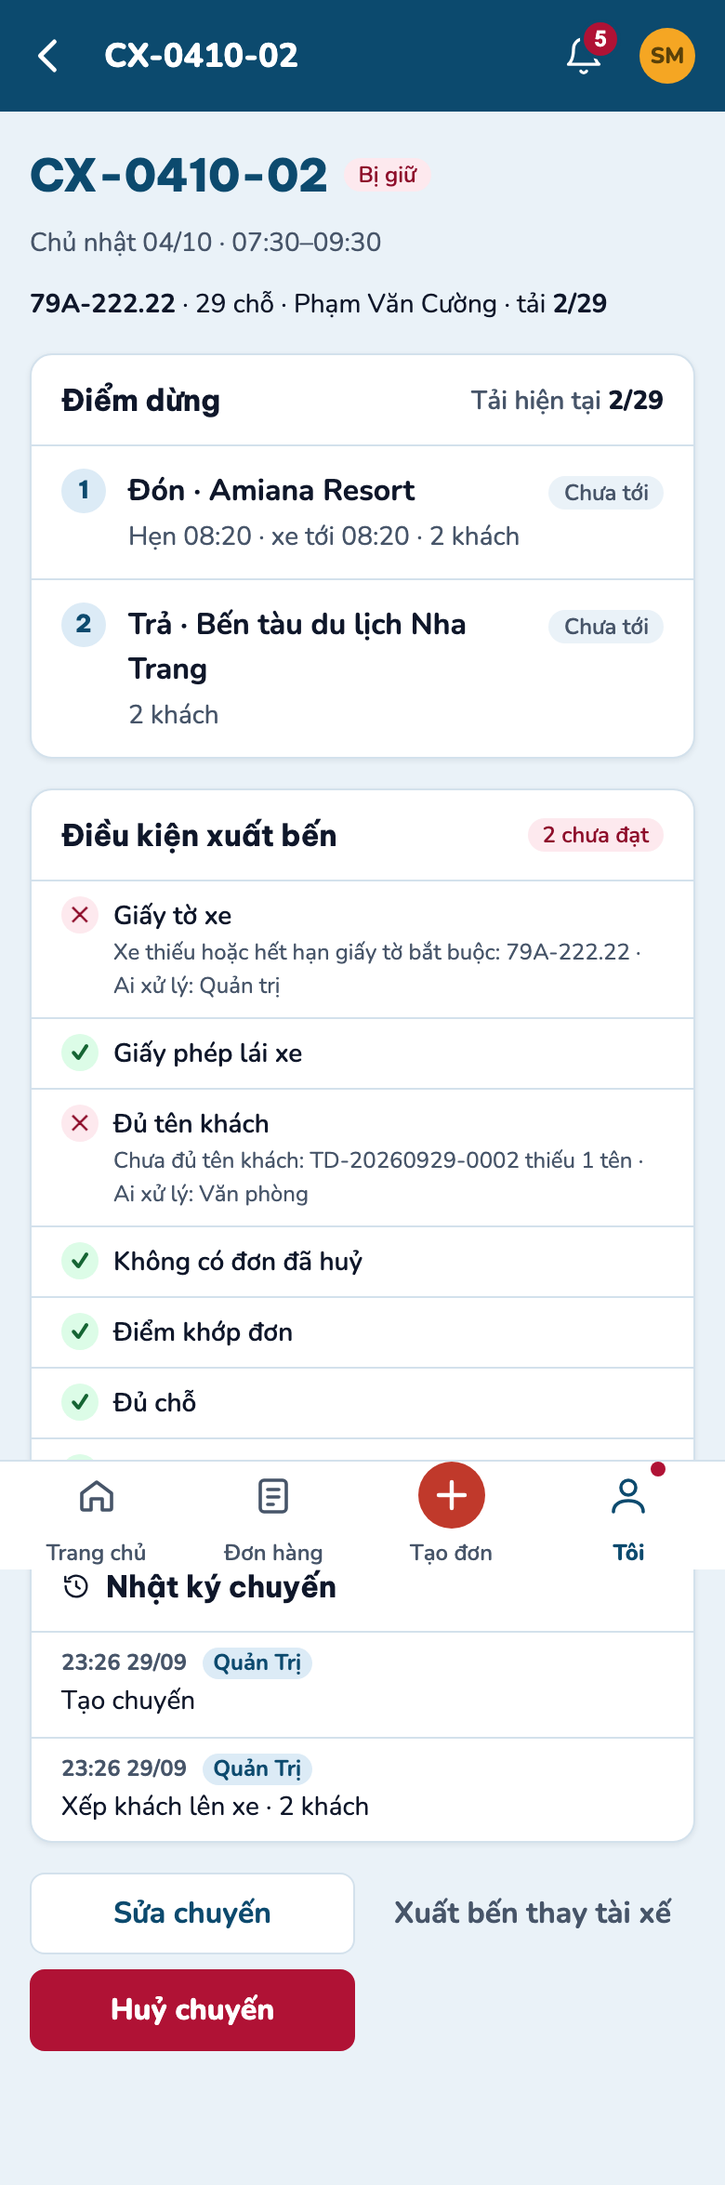
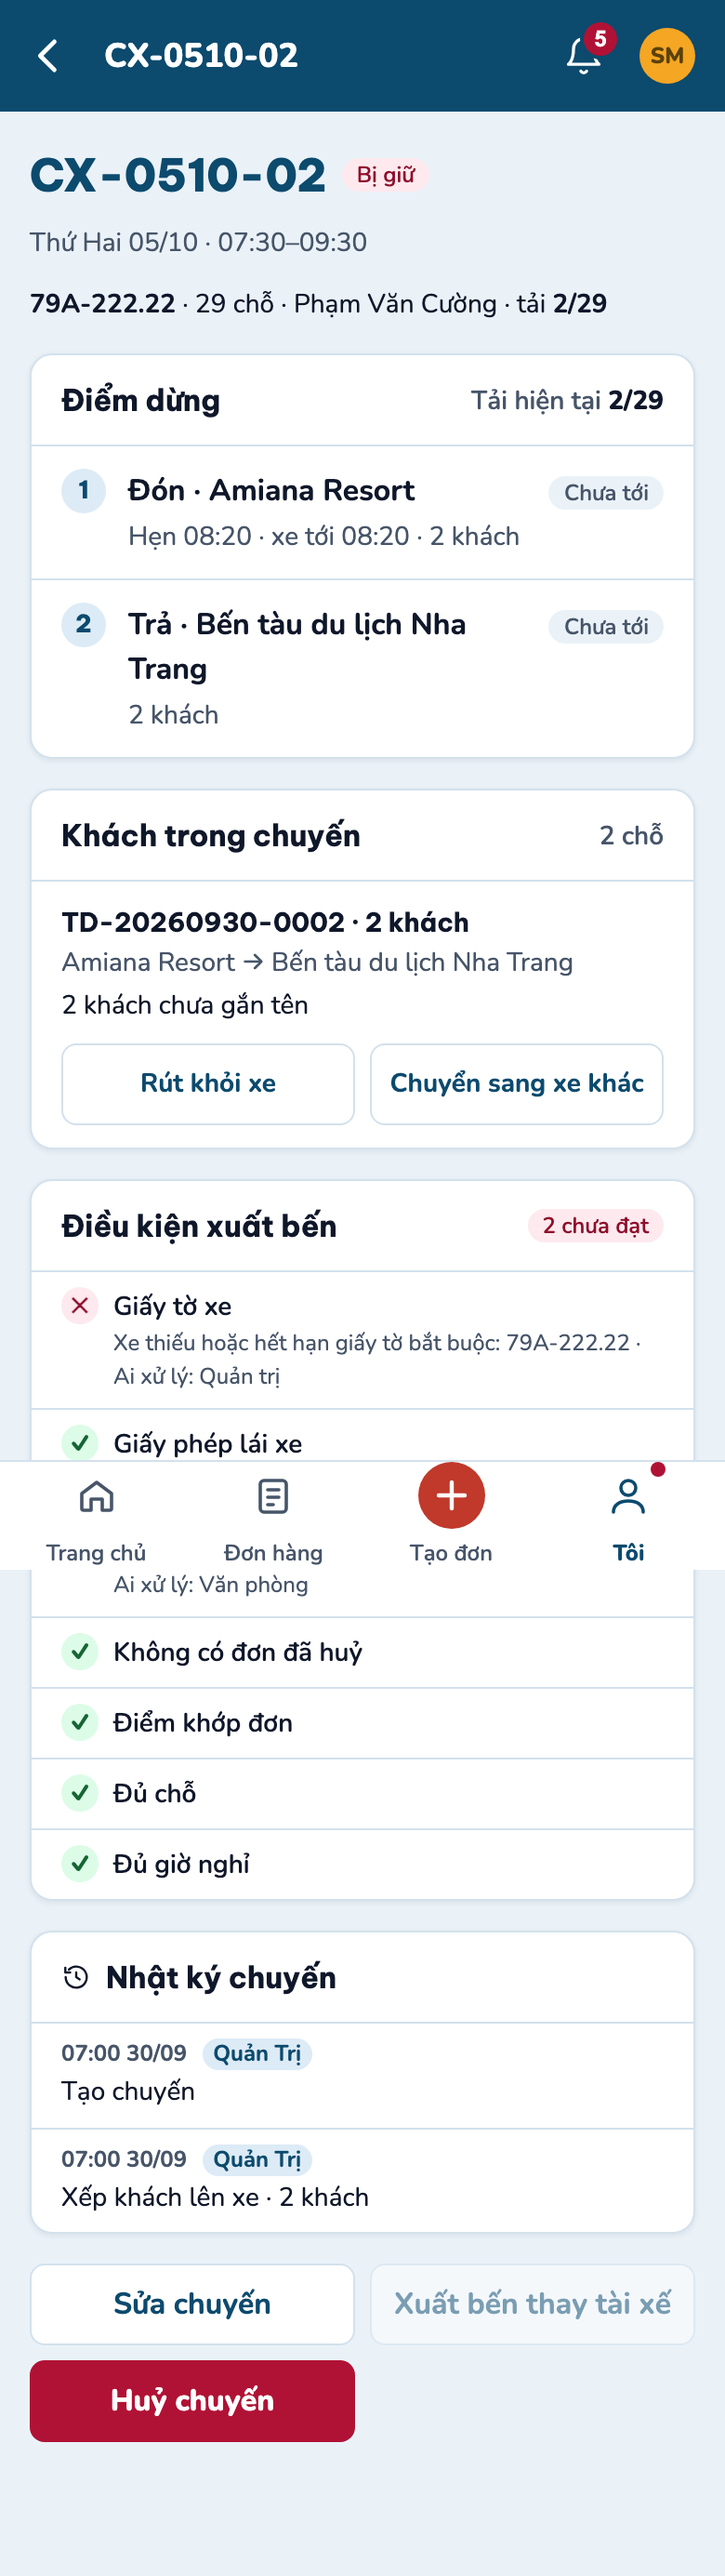
Chi tiết chuyến: nút khoá "Xuất bến thay tài xế" trông rõ là nút bị khoá (1040 + 390)
Vì sao: `.vc-btn:disabled` tô nền trùng nền trang nên nút khoá đặt thẳng trên nền trang
lẫn thành chữ thường (điều phối giao, giả định bề mặt đảo ngược được, nhật ký 13.7).
Giữ dáng nút ghost + mờ .5 theo khuôn nút khoá của bộ thiết kế; chỉ token, không đổi logic.
Chrome chuyen-smoke thêm kiểm nền khác nền trang + mờ: đỏ trước 6/8, xanh sau 8/8.
Kèm kết quả chạy lại sau gộp d9b884b (dd665b3).

Tự khai, chưa có người kiểm độc lập.

Claude-Session: https://claude.ai/code/session_012uzHHEgA3ZBQkvhnpB7ynZ

diff --git a/public/app.css b/public/app.css
@@ -1634,6 +1634,10 @@ body.login-page main.login { display: flex; flex-direction: column; height: 100%
 .dp-ct-when { font-size: var(--fs-label); color: var(--c-text-muted); }
 .dp-ct-actions { display: flex; flex-wrap: wrap; gap: var(--s2); margin-left: auto; }
 .dp-ct-actions .vc-btn { white-space: nowrap; }
+/* Nhật ký giao diện 13.7: nút khoá của Chi tiết chuyến đặt THẲNG trên nền trang (đầu trang máy tính, cuối trang điện thoại). `.vc-btn:disabled` tô nền
+   --c-surface-alt = đúng nền trang → nút lẫn thành chữ thường. Ở đây giữ dáng nút ghost (nền, viền) và làm mờ theo khuôn nút khoá của bộ thiết kế
+   (Button disabled = opacity .5, như `.btn:disabled`). Chỉ token. */
+.dp-ct-actions .vc-btn-ghost-primary:disabled, .dp-ct-bottom .vc-btn-ghost-primary:disabled { color: var(--c-primary); background: var(--c-surface); border-color: var(--c-border); opacity: .5; }
 .dp-ct-lock { margin-bottom: var(--s3); }
 .dp-ct-layout { display: grid; grid-template-columns: minmax(0, 1fr); gap: var(--s4); align-items: start; }
 .dp-ct-main, .dp-ct-side { display: flex; flex-direction: column; gap: var(--s4); min-width: 0; }

diff --git a/docs/evidence/2026-09-29-adr-0049/README.md b/docs/evidence/2026-09-29-adr-0049/README.md
@@ -24,7 +24,7 @@ AXE_JS=<…/axe.min.js> CHROME_BIN=docs/evidence/2026-09-20-a2/kich-ban/chrome-w
 | `dat-gap-smoke.mjs` | B7 — V12 | 12 | Mốc đặt 48 giờ bằng route chính sách (chặng đón ngày mai luôn dưới mốc). Bán hàng: biểu mẫu CHƯA lưu gọi `GET /api/orders/moc-toi-thieu`, dải cảnh báo 7b, đổi ngày thì hết / hiện lại; lưu nháp được; trang đơn khoá "Xác nhận đơn" + "Cần Quản trị duyệt đặt gấp"; 409 khi trang cũ → dải "Còn chặng đón dưới mốc…" có dòng từng chặng; đơn đã đặt gấp: nhãn ĐỦ (văn phòng — H4); sửa chuyến dưới mốc → 409, không khung. Quản trị: nút + khung Đặt gấp (bốn lý do từ `LY_DO_DAT_GAP`, thiếu lý do → câu lỗi, ghi chú /120), duyệt → nhãn 7c, xác nhận được; sửa chuyến dưới mốc → khung trong bảng, gửi lại kèm `datGap`; biểu mẫu CHƯA lưu (390) "Duyệt đặt gấp" = lưu nháp rồi đặt gấp. Đối tác: chỉ "Đặt gấp — Quản trị đã duyệt" ở khối dịch vụ; **bước 10b — bài canh R-P21**: Lịch sử đơn của Đối tác không có nhãn lý do / tên người duyệt (đỏ thật trước khi gộp máy chủ `df32e83`, xanh sau). axe; không lỗi console |
 | `moc-chua-co-smoke.mjs` | B7 — 503 | 6 | "Chưa có chính sách" dựng trên D1 TẠM của kịch bản (DROP TRIGGER + DELETE bảng chính sách — không sửa máy chủ): biểu mẫu không cảnh báo mốc, Lưu nháp có giờ đón → 503 → dải đỏ câu máy chủ + dòng việc cần làm; trang đơn không khoá Xác nhận, bấm → 503 (1040 + 390); bảng sửa chuyến → 503, không khung Đặt gấp; Toàn quyền lưu bản chính sách đầu tiên từ trạng thái rỗng → mọi thứ chạy lại |
 | `chuyen-sua-smoke.mjs` | B3 — V3 | 12 | Dữ liệu thử chung `dungDuLieuDieuPhoi` (`dp-lib.mjs`: 3 xe, 3 tài xế, 5 đơn, 4 chuyến, mốc 48 giờ — mọi thứ qua route thật). Bán hàng 1040: tiêu đề "Chuyến mới · dd/mm", bốn ô (KHÔNG ô ghi chú — Q1), xe bảo dưỡng không chọn được, tài xế theo nhóm; Lưu khi trống → bốn câu dưới bốn ô, không gửi; 3a: hạng bằng dưới Tài xế + trùng giờ dưới Giờ kết thúc + cột phải tô đỏ chuyến trùng; nghỉ thiếu → câu dưới Giờ bắt đầu, không hộp phá lệ; tạo được → sang chi tiết; chuyến đang khoá: đổi tài xế → câu "cần Quản trị phá lệ", dời giờ thì lưu được (2.3), "Chưa đổi gì"; 390 một cột + nút dính đáy. Quản trị 390 (3b): đổi tài xế chuyến đang khoá → hộp "Phá lệ" → gửi lại kèm `phaLe` (requestId mới); 1040: nghỉ thiếu → `nghiPhaLe`. Kế toán: câu từ chối, không gọi API. axe; không lỗi console |
-| `chuyen-smoke.mjs` | B2 — V2 | 8 | Bán hàng 1040: chuyến bị giữ "nơi đón / trả đã đổi" (dải + nút, dải bốn ô, điểm "Lệch đơn", điều kiện xuất bến "1 chưa đạt" kèm ai xử lý, nhật ký; KHÔNG nút chờ A15); chuyến bị người khác sửa → câu chung + "Tải lại" (H10) → cập nhật được, hết "Lệch đơn"; huỷ chuyến 3 khách → khách về "Chưa xếp" (2.12); chuyến đang khoá có khách → Bán hàng thấy câu "cần Quản trị phá lệ" (H17). 390: dòng tóm tắt, điểm dạng vòng số, nút cuối trang. Quản trị: huỷ chuyến đang khoá → hộp Phá lệ → gửi lại kèm `phaLe`, nhật ký có "phá lệ: …". Kế toán: không nút nào. axe; không lỗi console |
+| `chuyen-smoke.mjs` | B2 — V2 | 8 | Bán hàng 1040: chuyến bị giữ "nơi đón / trả đã đổi" (dải + nút, dải bốn ô, điểm "Lệch đơn", điều kiện xuất bến "1 chưa đạt" kèm ai xử lý, nhật ký; KHÔNG nút chờ A15); chuyến bị người khác sửa → câu chung + "Tải lại" (H10) → cập nhật được, hết "Lệch đơn"; huỷ chuyến 3 khách → khách về "Chưa xếp" (2.12); chuyến đang khoá có khách → Bán hàng thấy câu "cần Quản trị phá lệ" (H17). 390: dòng tóm tắt, điểm dạng vòng số, nút cuối trang; nút khoá "Xuất bến thay tài xế" (1040 + 390) có nền khác nền trang và mờ — không lẫn thành chữ thường (nhật ký 13.7). Quản trị: huỷ chuyến đang khoá → hộp Phá lệ → gửi lại kèm `phaLe`, nhật ký có "phá lệ: …". Kế toán: không nút nào. axe; không lỗi console |
 | `dieu-phoi-smoke.mjs` | B1 — V1 | 11 (bước 7b — K2b T1: tài xế gõ thẳng /dieu-phoi chỉ thấy câu từ chối, không ô ngày, không lời gọi lịch xe) | Bán hàng 1040: đầu trang, dải số liệu, ba cột, menu "Vận chuyển › Điều phối xe" (chỉ một mục con), không nút Gọi / Đã gọi báo / Phá lệ; bấm khối → thẻ đang chọn + "Cập nhật điểm theo đơn"; bấm thẻ chặng → hộp "Xếp vào chuyến" (chỉ chuyến lên kế hoạch, theo giờ), tách đoàn 3/5; kéo thả phần còn lại vào khối chuyến (DragEvent + DataTransfer); ngày trong vùng khoá: "Quá mốc" + dòng khoá, khối có ổ khoá theo `khoaMoc`, xếp → câu "cần Quản trị phá lệ". 390: trang Tôi có dòng "Điều phối xe"; ba thẻ (tablist, phím mũi tên), dòng thời gian cuộn ngang trong thẻ. Quản trị: menu đủ mục, xếp vào chuyến đang khoá → hộp Phá lệ → `phaLe`. Kế toán: "Chỉ xem", không nút, thẻ chọn chỉ "Mở chuyến". axe; không lỗi console |
 | `cuoc-smoke.mjs` | B4–B6 + bấm thay | 11 (bước 9b — K2b T2: tài khoản DRIVER + SALES có "Cuốc của tôi" ở thanh bên / trang Tôi, trang đầu không đổi; bước 1–3: nút cuối không bị thanh tab che) | Tài xế 390: mở "/" → Cuốc của tôi (hôm nay trống + ngày mai 2 chuyến; chuyến thiếu giấy xe "Bị giữ" + "(văn phòng lo)"; không tên / SĐT; ba tab); xuất bến bị giữ (chỉ điều kiện còn thiếu, nút khoá); xuất bến đủ điều kiện ("Đủ điều kiện xuất bến", thân không `xayRaLuc`) → đang chạy: tên + năm sinh + liên hệ (chỉ trong ngày chạy); "Đã tới" → Đã đón / Vắng / Khách đã huỷ (tên vẫn đúng sau lệnh — GA-55); mất mạng (CDP offline): "Chưa gửi được" + "Bấm lại", không tự gửi lại, bấm lại cùng requestId; hộp "Kết thúc gián đoạn" (lý do, không ô ghi chú); "Đã trả" → "Kết thúc chuyến". Bán hàng 1040: "Xuất bến thay tài xế" — hộp "Xảy ra lúc", giờ ngoài khoảng → câu dưới ô, khai đúng "Sớm nhất" → mốc hai giờ + "giờ do văn phòng khai"; "Đã tới" để nguyên giờ → không `xayRaLuc`, một giờ; tên khách vẫn đúng. Kế toán: không nút bấm thay |
 | `goi-bao-smoke.mjs` | B-GB (ADR-0051) | 7 | Bán hàng (người lập đơn): Cần xử lý có "Giờ hẹn đổi — gọi báo khách" ở ngày đang xem khác ngày chuyến ("Chuyến dd/mm"), không SĐT; "Đã gọi báo" (thân chỉ requestId + phienBan + gioMoi) → mục biến mất, dải "Đã ghi…" + "Bỏ đánh dấu" → hiện lại; Chi tiết chuyến: dòng ở điểm đón + "Đã gọi báo" → "đã gọi báo khách (Sales Một, HH:MM)" + "Bỏ đánh dấu"; giờ hẹn đổi tiếp khi màn cũ → 409 → câu hằng + "Tải lại". Tài xế: không thấy gì, route nhắc 403. Kế toán: thấy mục, không nút |
@@ -46,5 +46,6 @@ Kịch bản cũ đã sửa theo Phần B: `docs/evidence/2026-09-28-van-chuyen-
 - B4–B6 (tài xế): `b4-cuoc-cua-toi-dien-thoai.png`, `b6-xuat-ben-chua-dat-dien-thoai.png`, `b6-xuat-ben-dat-dien-thoai.png`, `b5-chuyen-dang-chay-dien-thoai.png`, `b5-mat-mang-dien-thoai.png`, `b5-ket-thuc-gian-doan-dien-thoai.png`; trang đầu tài xế (Q5): `docs/evidence/2026-09-28-van-chuyen-1a/anh/tai-xe-trang-dau-*.png` (chụp lại).
 - K2b T2: `b4-cuoc-tai-khoan-lai-dien-thoai.png`.
 - Vòng 5b (rút / chuyển xe): `b5b-khach-trong-chuyen-may-tinh.png`, `b5b-khach-trong-chuyen-dien-thoai.png`, `b5b-chuyen-xe-hop-may-tinh.png`, `b5b-chuyen-xe-hop-dien-thoai.png`, `b5b-vung-khoa-ban-hang-dien-thoai.png`, `b5b-pha-le-rut-may-tinh.png`.
+- Nút khoá trông rõ là nút (nhật ký 13.7, 390): trước `b2-nut-khoa-truoc-dien-thoai.png`, sau `b2-nut-khoa-sau-dien-thoai.png` (cắt phần cuối trang của `b2-chi-tiet-bi-giu-dien-thoai.png`).
 - B-GB: `bgb-can-xu-ly-ban-hang-may-tinh.png`, `bgb-da-goi-bao-may-tinh.png`, `bgb-chi-tiet-da-goi-may-tinh.png`, `bgb-can-xu-ly-ke-toan-may-tinh.png`.
 - Ảnh cả trang ở 1040 có thanh bên dính lệch chỗ — hiện tượng của cách chụp kéo dài trang (`captureBeyondViewport`), không phải lỗi bố cục.

diff --git a/docs/superpowers/plans/2026-09-29-adr-0049-giao-dien-nhat-ky.md b/docs/superpowers/plans/2026-09-29-adr-0049-giao-dien-nhat-ky.md
@@ -490,3 +490,20 @@ Chưa gộp máy chủ mới (điều phối: đợi HEAD sau phần vá xoá đ
 - Kết quả Chrome vòng 5 (goi-bao 7/7, cuoc 11/11, dieu-phoi 11/11) đo ở `1b82078`, TRƯỚC 5b. 5b đo `rut-doi` 8/8 và `chuyen` 8/8 trên cùng nội dung với e2e6894. Chưa có số đo ba kịch bản vòng 5 ở e2e6894.
 - Mã lỗi của lệnh chuyển: 409 trả `message` theo bảng `THONG_BAO_409` (`src/modules/van-chuyen/dieu-phoi-route.ts:31`, mặc định "Lệnh chưa làm được."), lý do theo `loiNhan` / `aiXuLyNhan` (tiếng Việt). Giao diện chỉ ghép hai trường này (`docLoiLenh`), không hiện `code` — không lộ mã. Ca Chrome riêng cho "hết chỗ" / "chéo xe – tài xế" vẫn là nợ.
 - Trigger `orders_no_delete` (a364b12): kịch bản của nhánh này không xoá `orders` (chỉ `vc_dispatch_policy` ở `moc-chua-co-smoke`, `order_item` ở trình trợ giúp chung `a2-cdp.mjs`). Chưa chạy thật sau gộp.
+
+### 13.7 Sau gộp `d9b884b` (điều phối gộp → `dd665b3`; chủ 30/9 "Cho phép (Recommended)")
+- Chạy lại trên `dd665b3`:
+  - `npm test` hai bước: bước 1 1836/1836, bước 2 (bài đo giờ hook chạy một mình) 1/1, mã thoát 0.
+  - `npm run typecheck` 0; `npm run build:web` 0.
+  - Chrome, chạy riêng, không song song e2e: rut-doi 8/8, cuoc 11/11, goi-bao 7/7, dieu-phoi 11/11; chuyen 6/8 — đỏ ĐÚNG hai bước kiểm mới dưới đây (đỏ trước), các bước còn lại xanh.
+  - Trigger `orders_no_delete`: không kịch bản nào đỏ vì xoá đơn.
+- **Sửa bề mặt (giả định của điều phối, đảo ngược được)** — nút "Xuất bến thay tài xế" khi khoá trông như chữ thường.
+  - Gốc: `.vc-btn:disabled` tô nền `--c-surface-alt`, trùng nền trang (`body` = `--c-alt` = `--c-surface-alt`). Nút đặt thẳng trên nền trang (đầu trang máy tính `.dp-ct-actions`, cuối trang điện thoại `.dp-ct-bottom`) mất khung. Máy tính cũng dính, ảnh b2-chi-tiet-bi-giu-may-tinh cũ.
+  - Sửa: chỉ ở hai chỗ đó, nút ghost khoá giữ dáng nút (nền `--c-surface`, viền `--c-border`, chữ `--c-primary`) và mờ `opacity: .5`. Đây là khuôn nút khoá của bộ thiết kế (Button disabled = opacity .5, như `.btn:disabled` sẵn có). Chỉ token; không đổi logic, không đổi `.vc-btn:disabled` chung.
+- Chrome: `chuyen-smoke` bước 1 (1040) và bước 5 (390) thêm `nutKhoaRo`: nút khoá, nền khác nền trang, opacity < 1.
+  - Đỏ trước: 6 ✓ / 2 ✗ "nút khoá lẫn vào nền trang (rgb(234, 242, 248))".
+  - Xanh sau: 8/8.
+  - `npm run test:e2e -- pwa` (quét token sau dấu mốc PWA): đạt, 31 trang. `src/khung-dang-tai-css.test.ts` + `src/shared/sw-policy.test.ts`: 20/20.
+- Ảnh 390: trước `b2-nut-khoa-truoc-dien-thoai.png`, sau `b2-nut-khoa-sau-dien-thoai.png`; cả trang `b2-chi-tiet-bi-giu-dien-thoai.png`, `b2-chi-tiet-bi-giu-may-tinh.png` (chụp lại).
+- Q-B-18: KHÔNG đổi màn xếp (điều phối đang cho người kiểm máy chủ soi I19(a)).
+- Vệ sinh: sau mỗi lượt Chrome `ps` không còn wrangler / workerd nào của worktree này.
